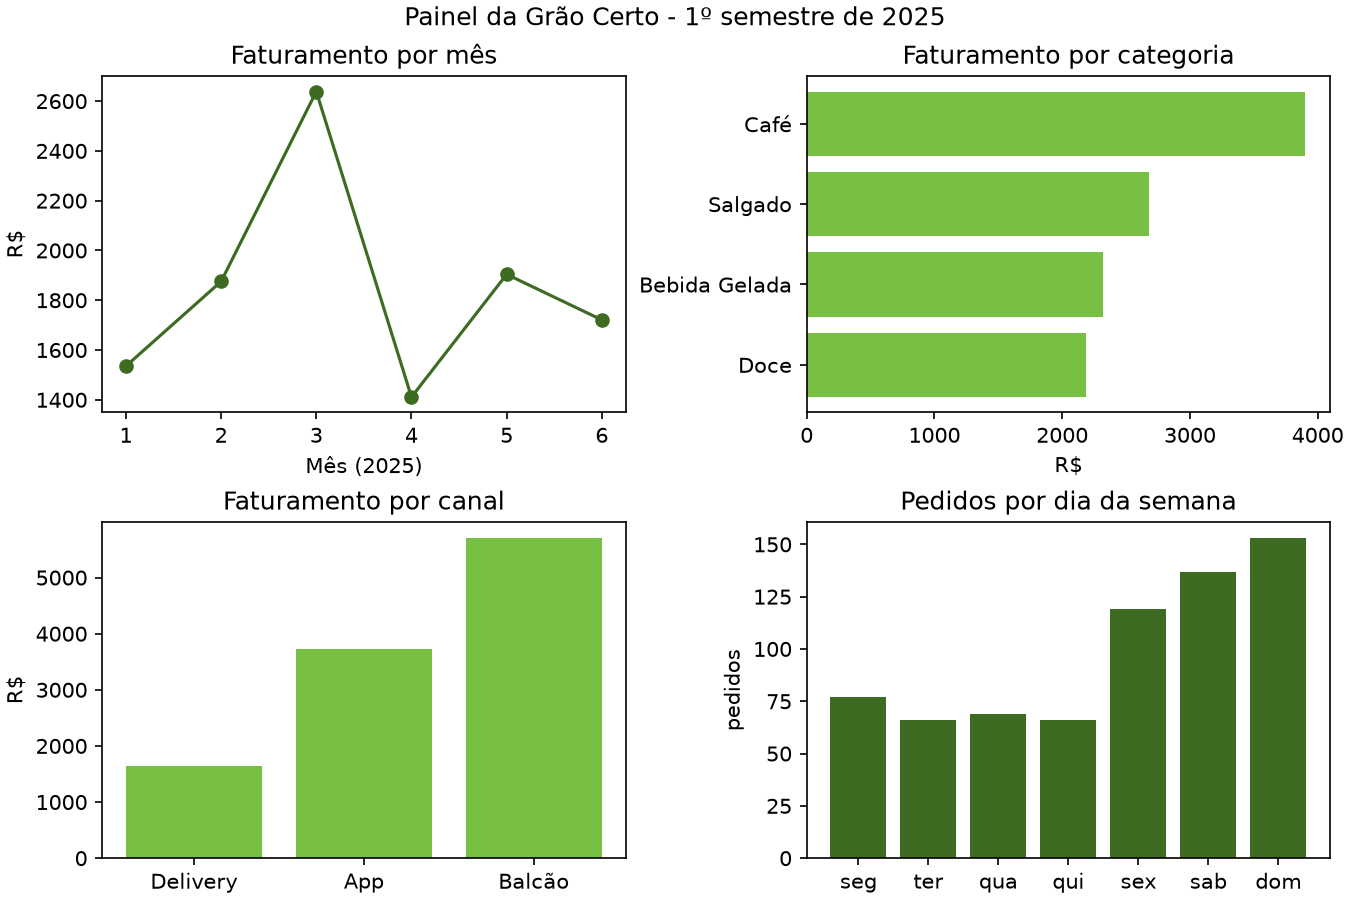
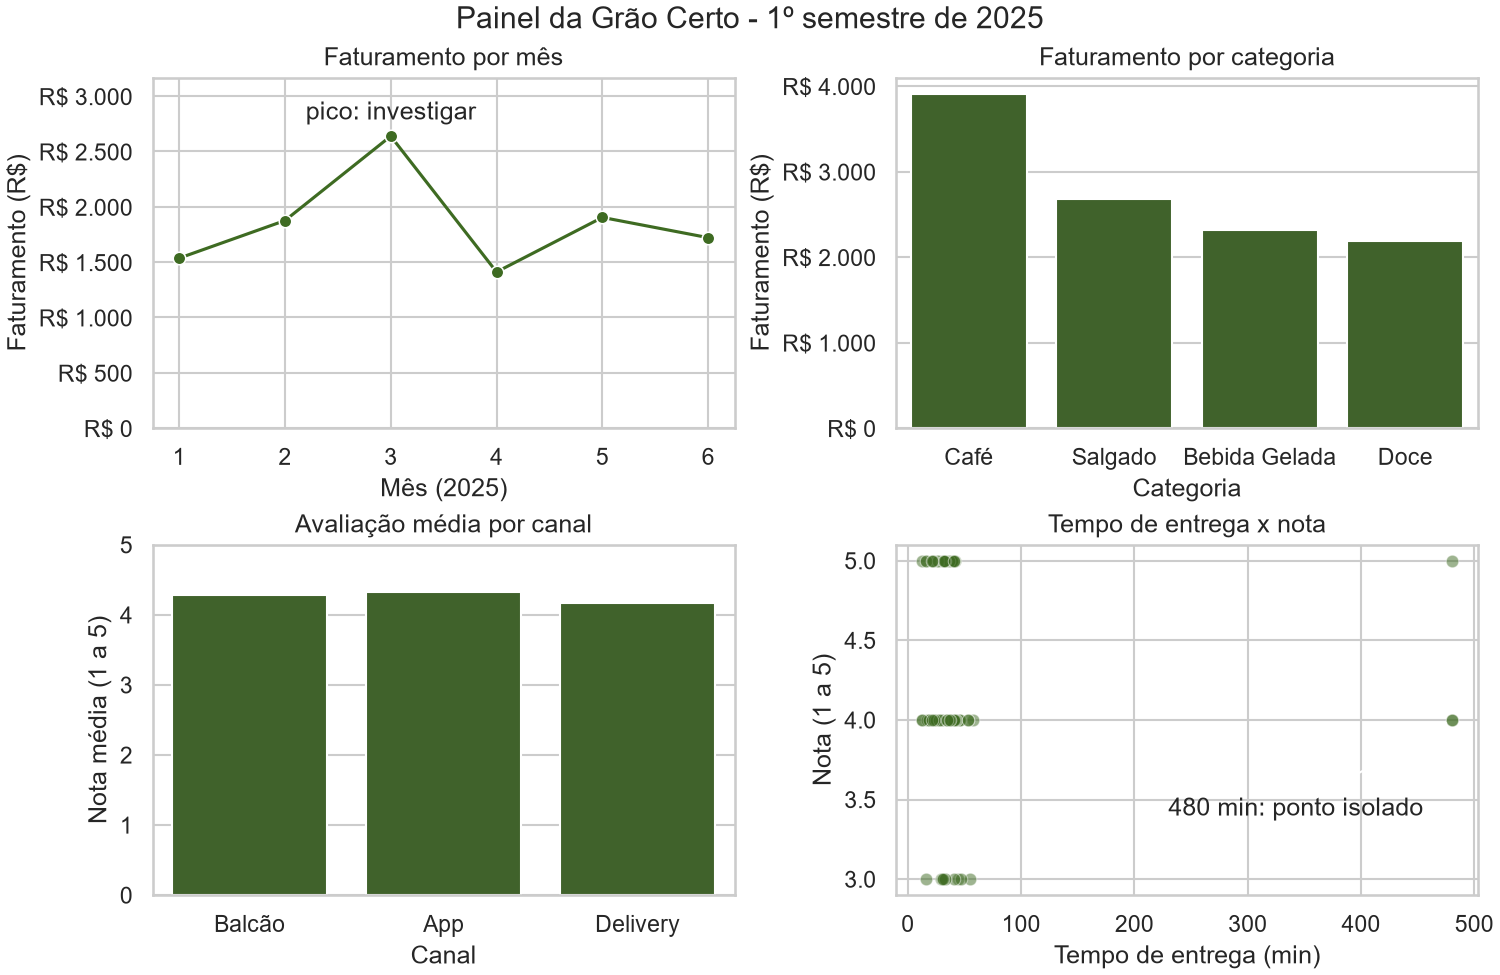
Adicionado exercício painel_cafeteria.py

diff --git a/Exercícios/S07/painel_cafeteria.py b/Exercícios/S07/painel_cafeteria.py
@@ -1,0 +1,56 @@
+from pathlib import Path
+
+import matplotlib.pyplot as plt
+import pandas as pd
+import seaborn as sns
+
+
+from matplotlib.ticker import FuncFormatter
+
+VERDE = "#3E6B22"
+reais = FuncFormatter(lambda v, _: f"R$ {v:,.0f}".replace(",", "."))
+
+
+def criar_painel(base):
+    """Desenha 4 gráficos em uma figura e devolve a figura."""
+    entrega = base.dropna(subset=["tempo_entrega_min", "avaliacao"])
+    ordem_cat = base.groupby("categoria")["total"].sum().sort_values(ascending=False).index
+
+    sns.set_theme(style="whitegrid")
+    fig, axes = plt.subplots(2, 2, figsize=(10, 6.5), layout="constrained")
+
+    # 1) Como o faturamento mudou mês a mês?  (tempo -> linha)
+    ax = axes[0, 0]
+    sns.lineplot(data=base, x="mes", y="total", estimator="sum", errorbar=None, marker="o", color=VERDE, ax=ax)
+    ax.set(title="Faturamento por mês", xlabel="Mês (2025)", ylabel="Faturamento (R$)")
+    ax.yaxis.set_major_formatter(reais)
+    pico = base.groupby("mes")["total"].sum()
+    ax.set_ylim(0, pico.max() * 1.2)   # abre espaço para a anotação
+    ax.annotate("pico: investigar", (pico.idxmax(), pico.max()), xytext=(0, 8), textcoords="offset points", ha="center")
+
+    # 2) Qual categoria vende mais?  (grupos -> barra)
+    ax = axes[0, 1]
+    sns.barplot(data=base, x="categoria", y="total", estimator="sum", errorbar=None, order=ordem_cat, color=VERDE, ax=ax)
+    ax.set(title="Faturamento por categoria", xlabel="Categoria", ylabel="Faturamento (R$)")
+    ax.yaxis.set_major_formatter(reais)
+
+    # 3) A nota muda entre canais?  (barra começando no zero: honesto)
+    ax = axes[1, 0]
+    sns.barplot(data=base, x="canal", y="avaliacao", errorbar=None, color=VERDE, ax=ax)
+    ax.set(title="Avaliação média por canal", xlabel="Canal", ylabel="Nota média (1 a 5)", ylim=(0, 5))
+
+    # 4) Quem demora mais recebe nota pior?  (relação -> dispersão)
+    ax = axes[1, 1]
+    sns.scatterplot(data=entrega, x="tempo_entrega_min", y="avaliacao", alpha=0.5, color=VERDE, ax=ax)
+    ax.set(title="Tempo de entrega x nota", xlabel="Tempo de entrega (min)", ylabel="Nota (1 a 5)")
+    ax.annotate("480 min: ponto isolado", (480, 4), xytext=(230, 3.4), arrowprops={"arrowstyle": "->"})
+
+    fig.suptitle("Painel da Grão Certo - 1º semestre de 2025")
+    return fig
+
+
+base = pd.read_csv("arquivos/pedidos_prontos.csv", parse_dates=["data"])
+fig = criar_painel(base)
+fig.savefig("arquivos/painel.png", dpi=150)
+print("Painel com", len(fig.axes), "gráficos gravado em painel.png")
+plt.show()
